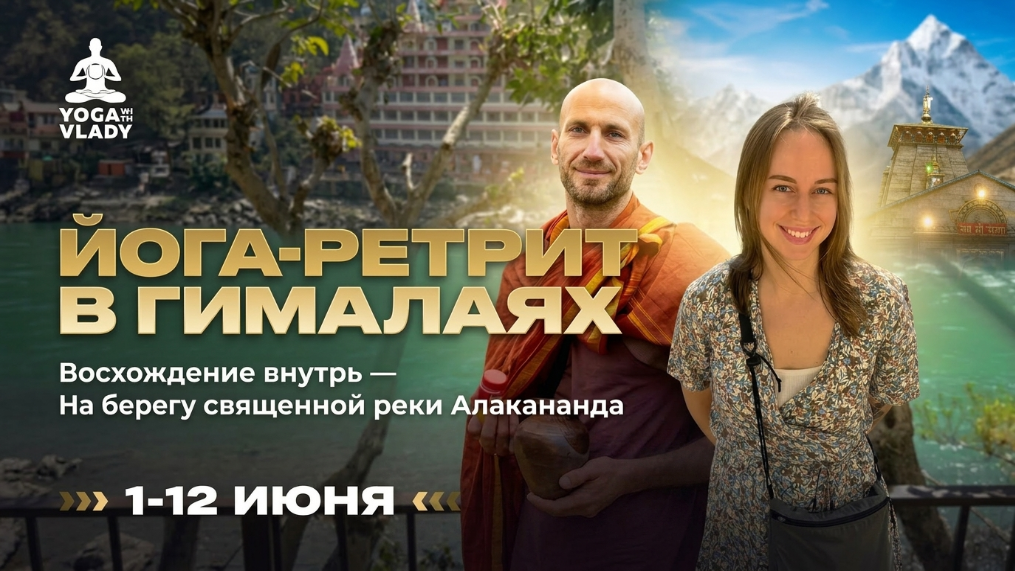
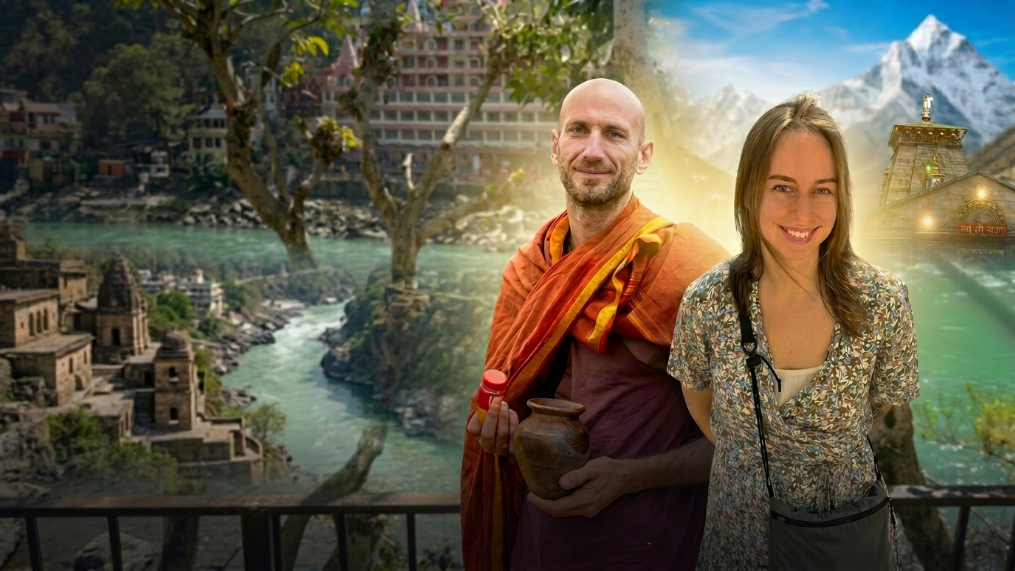
Hero: new clean image + gold 3D text overlay for title

diff --git a/app/retreats/himalaya/page.tsx b/app/retreats/himalaya/page.tsx
@@ -60,9 +60,23 @@ export default function HimalayaPage() {
               src="/images/retrite/himalaya-hero.png"
               alt="Йога-ретрит в Гималаях"
               fill
-              className="object-cover object-center lg:object-[50%_90%]"
+              className="object-cover object-center lg:object-[50%_50%]"
               priority
             />
+            {/* Золотой заголовок поверх фото */}
+            <div className="absolute inset-0 flex items-end pb-10 sm:pb-14 lg:pb-16 px-6 sm:px-10 lg:px-16">
+              <h1
+                className="font-black uppercase leading-none tracking-tight text-[13vw] sm:text-[10vw] lg:text-[8vw]"
+                style={{
+                  color: '#D4A520',
+                  textShadow:
+                    '2px 2px 0 #8B5E0A, 4px 4px 0 #6B4508, 6px 6px 0 #4A2F04, 8px 8px 14px rgba(0,0,0,0.7)',
+                  fontFamily: '"Arial Black", "Impact", sans-serif',
+                }}
+              >
+                ЙОГА-РЕТРИТ<br />В ГИМАЛАЯХ
+              </h1>
+            </div>
           </div>
 
           {/* Meta bar */}
